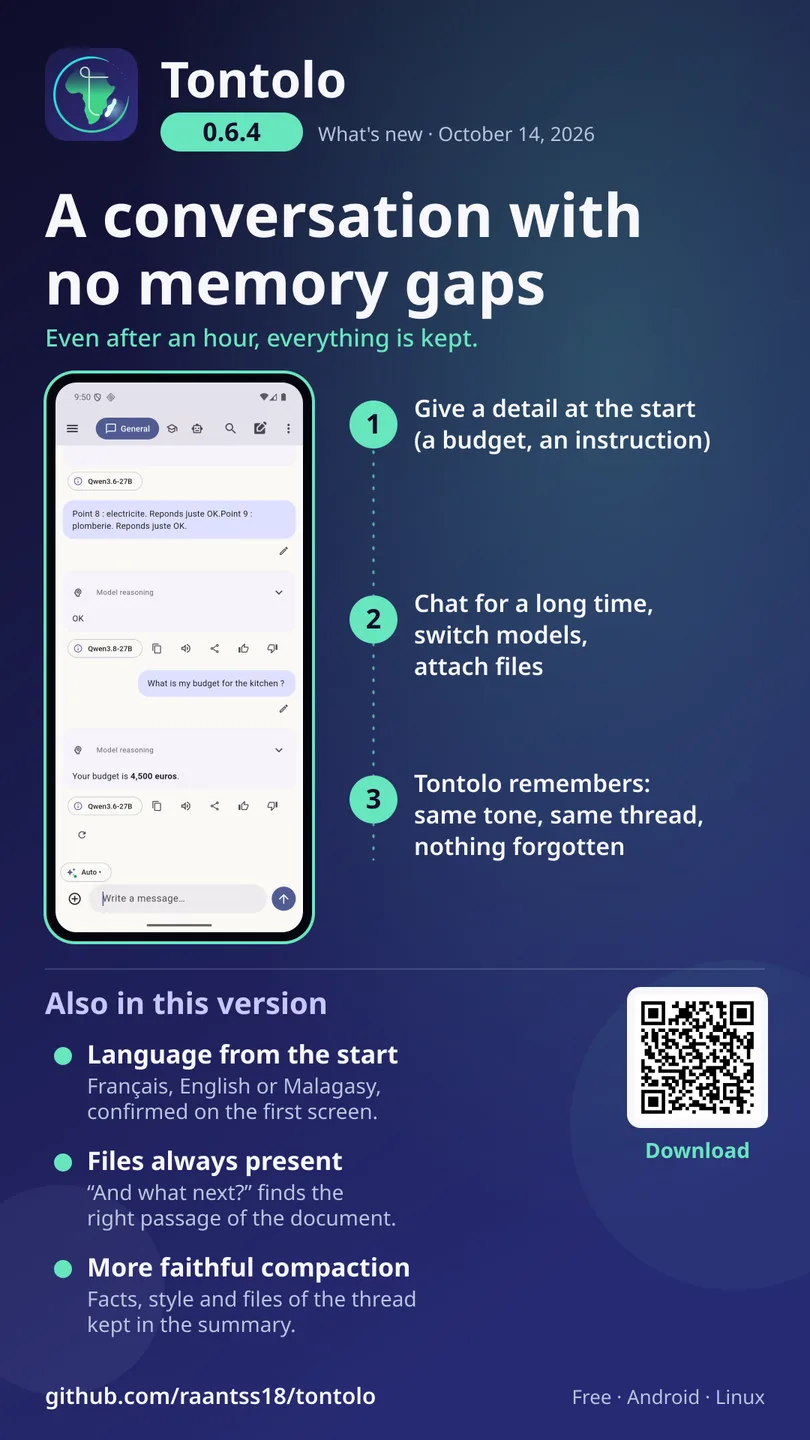
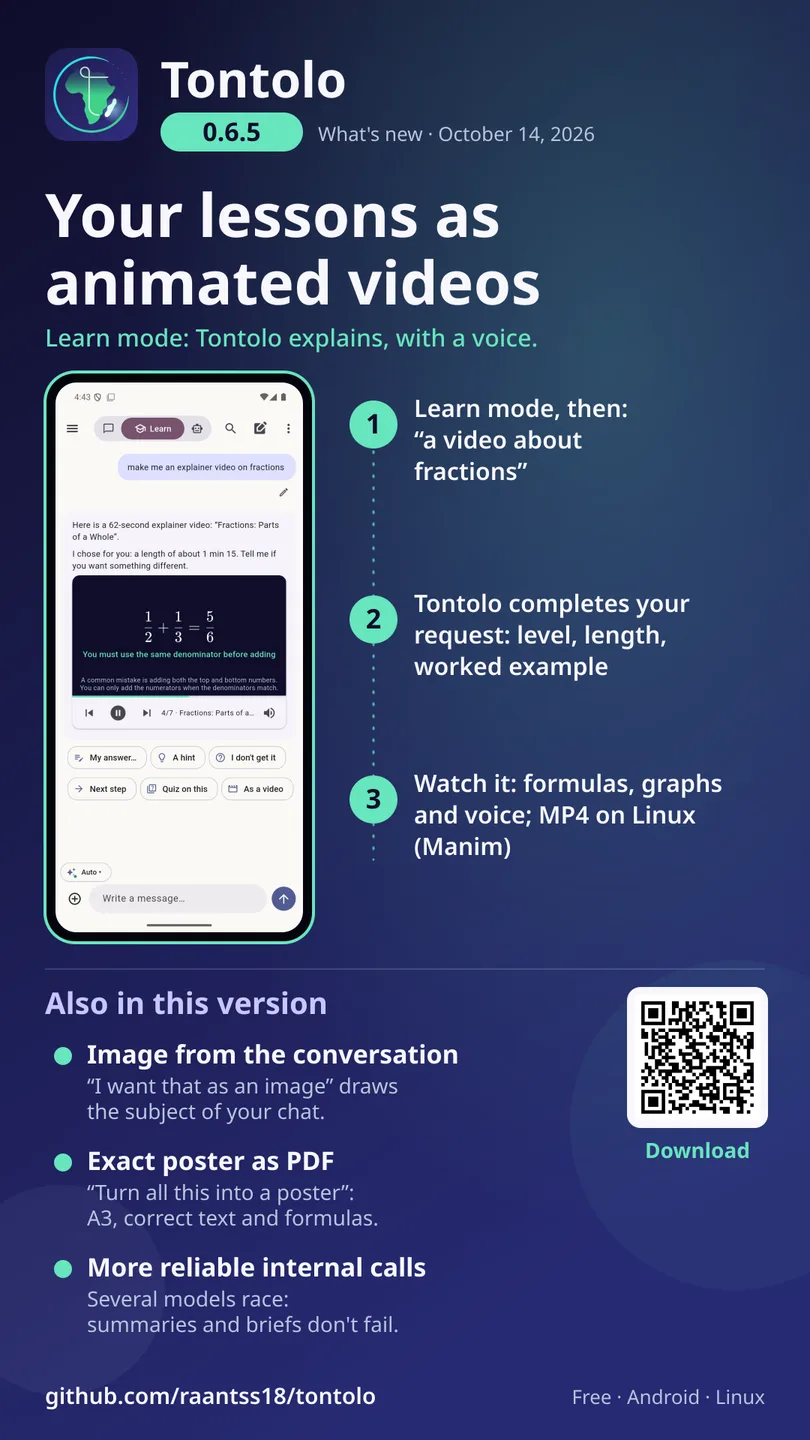
chore(release): v0.6.5
Vidéos explicatives du mode Apprendre testées hors mathématiques : exemple adapté au domaine, LaTeX mis en clair dans la voix, demande sans verbe comprise (fr/en/mg), nouvelle tentative plus courte, lecteur sans débordement.

diff --git a/app/lib/core/whats_new.dart b/app/lib/core/whats_new.dart
@@ -14,6 +14,16 @@ class NewsItem {
 }
 
 const whatsNew = <String, List<NewsItem>>{
+  '0.6.5': [
+    NewsItem(Icons.movie_creation_outlined, 'Des vidéos qui expliquent vos cours',
+        'En mode Apprendre, demandez « fais-moi une vidéo qui explique les fractions » : Tontolo complète votre demande, écrit le scénario et joue une vidéo animée avec la voix, formules et courbes comprises. Sur Linux avec Manim, export en MP4.',
+        'Videos that explain your lessons', 'In Learn mode, ask “make me a video that explains fractions”: Tontolo completes your request, writes the script and plays an animated video with a voice, formulas and graphs included. On Linux with Manim, export to MP4.',
+        mg: 'Horonan-tsary manazava ny lesonao', mgText: 'Amin\'ny Mianatra, angataho hoe « manaova horonan-tsary manazava ny fraction »: ampitambaran\'i Tontolo ny fangatahanao, manoratra ny tantara ary mampiseho horonan-tsary miaraka amin\'ny feo, raikipohy ary fakan-tsary. Amin\'ny Linux misy Manim, azo avoaka MP4.'),
+    NewsItem(Icons.image_outlined, 'Une image tirée de la discussion',
+        '« Je veux ça en image » : l\'image vient maintenant de votre discussion (avant, c\'est la phrase de la demande qui servait de prompt). « Transforme tout cela en poster détaillé » livre un poster A3 en PDF, au texte exact.',
+        'An image drawn from the conversation', '“I want that as an image”: the image now comes from your conversation (before, the request sentence itself was the prompt). “Turn all this into a detailed poster” delivers an A3 PDF poster with exact text.',
+        mg: 'Sary avy amin\'ny resaka', mgText: '« Tiako ho sary izany »: avy amin\'ny resakao ankehitriny ny sary (taloha dia ny fehezanteny nangatahana no nampiasaina). « Ataovy poster feno izany rehetra izany » dia manome poster A3 PDF misy lahatsoratra marina.'),
+  ],
   '0.6.4': [
     NewsItem(Icons.psychology_outlined, 'Une discussion sans trou de mémoire',
         'Même après une heure d\'échanges, Tontolo retrouve ce que vous avez dit au début, garde en tête vos fichiers joints (même pour « et la suite ? ») et conserve le même ton, quel que soit le modèle qui répond.',

diff --git a/app/lib/ui/explainer_player.dart b/app/lib/ui/explainer_player.dart
@@ -203,7 +203,7 @@ class _ExplainerPlayerState extends State<ExplainerPlayer> with SingleTickerProv
               color: _bg,
               child: Stack(fit: StackFit.expand, children: [
                 LayoutBuilder(
-                  builder: (context, box) => _SceneView(scene: scene, t: _ctl.value, scale: box.maxWidth / 640),
+                  builder: (context, box) => _SceneView(scene: scene, t: _ctl.value, scale: box.maxWidth / 420),
                 ),
                 if (!playing)
                   const Center(child: Icon(Icons.play_circle_fill, size: 56, color: Color(0xCCF7F7FB))),
@@ -353,7 +353,7 @@ class _SceneView extends StatelessWidget {
           Expanded(
             child: Padding(
               padding: EdgeInsets.symmetric(horizontal: 24 * scale),
-              child: Column(mainAxisAlignment: MainAxisAlignment.center, children: [
+              child: FittedBox(fit: BoxFit.scaleDown, child: Column(mainAxisSize: MainAxisSize.min, children: [
                 for (var i = 0; i < steps.length; i++)
                   Opacity(
                     opacity: _ease(t, 0.08 + 0.6 * i / steps.length, 0.2 + 0.6 * i / steps.length),
@@ -365,7 +365,7 @@ class _SceneView extends StatelessWidget {
                       ]),
                     ),
                   ),
-              ]),
+              ])),
             ),
           ),
           SizedBox(height: 22 * scale),

diff --git a/app/lib/core/updater.dart b/app/lib/core/updater.dart
@@ -23,7 +23,7 @@ import '../l10n/strings.dart';
 import 'prefs.dart';
 import 'update_key.dart';
 
-const appVersion = '0.6.4';
+const appVersion = '0.6.5';
 const repo = 'raantss18/tontolo';
 
 enum UpdateStatus { idle, checking, downloading, ready, failed, upToDate }

diff --git a/core/tontolo/explainer/storyboard.py b/core/tontolo/explainer/storyboard.py
@@ -41,6 +41,28 @@ def _text(value: Any, limit: int = MAX_TEXT) -> str:
     return s[:limit]
 
 
+_FRAC = re.compile(r"\\d?frac\s*\{([^{}]*)\}\s*\{([^{}]*)\}")
+_SYMBOLS = (("\\times", "×"), ("\\cdot", "·"), ("\\div", "÷"), ("\\pi", "π"),
+            ("\\leq", "≤"), ("\\geq", "≥"), ("\\neq", "≠"), ("\\approx", "≈"),
+            ("\\rightarrow", "→"), ("\\to", "→"))
+
+
+def _plain(value: Any, limit: int = MAX_TEXT) -> str:
+    """Texte à lire ou à afficher tel quel : un modèle y laisse parfois du LaTeX
+    (« \\frac{1}{2} »), que la voix épellerait. On le met en clair."""
+    s = _text(value, 4 * limit)
+    if "\\" in s or "$" in s:
+        s = s.replace("$", "")
+        s = _FRAC.sub(r"\1/\2", s)
+        s = re.sub(r"\\sqrt\s*\{([^{}]*)\}", r"√\1", s)
+        s = re.sub(r"\\text\{([^{}]*)\}", r"\1", s)
+        for tex, sym in _SYMBOLS:
+            s = s.replace(tex, sym)
+        s = re.sub(r"\\[A-Za-z]+", "", s).replace("{", "").replace("}", "")
+        s = re.sub(r"\s+", " ", s).strip()
+    return s[:limit]
+
+
 _LATEX_OK = re.compile(r"^[\\A-Za-z0-9{}\[\]()_^=+\-*/.,:;<>|!&' ~%]+$")
 _LATEX_BAD = re.compile(
     r"\\(?:input|include|write|openin|openout|read|def|edef|gdef|xdef|let|catcode|newcommand|"
@@ -150,7 +172,7 @@ def plot_points(expr: str, xmin: float, xmax: float, n: int = POINTS
 def _items(raw: Any, limit: int = MAX_ITEMS) -> list[str]:
     if not isinstance(raw, list):
         return []
-    return [t for t in (_text(i) for i in raw[:limit]) if t]
+    return [t for t in (_plain(i) for i in raw[:limit]) if t]
 
 
 def _scene(raw: Any, index: int) -> dict[str, Any]:
@@ -160,14 +182,14 @@ def _scene(raw: Any, index: int) -> dict[str, Any]:
     if kind not in TYPES:
         raise StoryboardError(f"scène {index + 1} : type inconnu « {kind} » (types : "
                               + ", ".join(TYPES) + ")")
-    out: dict[str, Any] = {"type": kind, "narration": _text(raw.get("narration"), MAX_NARRATION)}
+    out: dict[str, Any] = {"type": kind, "narration": _plain(raw.get("narration"), MAX_NARRATION)}
     if kind == "title":
-        out["text"] = _text(raw.get("text") or raw.get("title"))
-        out["subtitle"] = _text(raw.get("subtitle"))
+        out["text"] = _plain(raw.get("text") or raw.get("title"))
+        out["subtitle"] = _plain(raw.get("subtitle"))
         if not out["text"]:
             raise StoryboardError(f"scène {index + 1} (title) : « text » manquant")
     elif kind in ("bullets", "recap"):
-        out["title"] = _text(raw.get("title"))
+        out["title"] = _plain(raw.get("title"))
         out["items"] = _items(raw.get("items"), 4)
         if not out["items"]:
             raise StoryboardError(f"scène {index + 1} ({kind}) : « items » manquant")
@@ -177,16 +199,16 @@ def _scene(raw: Any, index: int) -> dict[str, Any]:
                     "narration": out["narration"]}
     elif kind == "equation":
         out["latex"] = latex(raw.get("latex"))
-        out["caption"] = _text(raw.get("caption"))
+        out["caption"] = _plain(raw.get("caption"))
     elif kind == "steps":
-        out["title"] = _text(raw.get("title"))
+        out["title"] = _plain(raw.get("title"))
         steps = []
         for s in (raw.get("steps") or [])[:MAX_ITEMS] if isinstance(raw.get("steps"), list) else []:
             if isinstance(s, str):
                 s = {"text": s}
             if not isinstance(s, dict):
                 continue
-            step = {"text": _text(s.get("text"))}
+            step = {"text": _plain(s.get("text"))}
             if s.get("latex"):
                 step["latex"] = latex(s.get("latex"))
             if step["text"] or step.get("latex"):
@@ -195,8 +217,8 @@ def _scene(raw: Any, index: int) -> dict[str, Any]:
             raise StoryboardError(f"scène {index + 1} (steps) : au moins 2 étapes")
         out["steps"] = steps
     elif kind == "plot":
-        out["title"] = _text(raw.get("title"))
-        out["caption"] = _text(raw.get("caption"))
+        out["title"] = _plain(raw.get("title"))
+        out["caption"] = _plain(raw.get("caption"))
         out["expr"] = _text(raw.get("expr"), 80)
         try:
             xmin, xmax = float(raw.get("xmin", -5)), float(raw.get("xmax", 5))
@@ -205,7 +227,7 @@ def _scene(raw: Any, index: int) -> dict[str, Any]:
         out["xmin"], out["xmax"] = xmin, xmax
         out["points"] = plot_points(out["expr"], xmin, xmax)
     elif kind == "bars":
-        out["title"] = _text(raw.get("title"))
+        out["title"] = _plain(raw.get("title"))
         labels = _items(raw.get("labels"), 6)
         values: list[float] = []
         for v in (raw.get("values") or [])[:6] if isinstance(raw.get("values"), list) else []:

diff --git a/core/tontolo/explainer/intent.py b/core/tontolo/explainer/intent.py
@@ -33,6 +33,10 @@ _MAKE_VIDEO = re.compile(
     rf"\b(?:fais|faire|cr[ée]e\w*|g[ée]n[èe]re\w*|produis\w*|r[ée]alise\w*|pr[ée]pare\w*|"
     rf"montre-moi|donne-moi|make|create|generate|produce|manaova|mamorona|ataovy)\b"
     rf"(?:-moi|-nous)?(?:\s+\S{{1,14}}){{0,4}}?\s+{_VIDEO}\b", re.I)
+# « une vidéo sur la guerre froide », « vidéo : les temps du passé » (sans verbe)
+_BARE_VIDEO = re.compile(
+    rf"^\s*(?:(?:une?|a|an)\s+)?(?:(?:courte?|petite?|short|quick)\s+)?{_VIDEO}\s*"
+    rf"(?::|sur|[àa] propos de|about|on|momba)", re.I)
 _ABOUT_EXISTING = re.compile(
     rf"\b(?:cette|cet|la|ma|ta|sa|this|the|ity)\s+{_VIDEO}\s+(?:jointe|que|est|dit|montre|"
     rf"attached)\b|\b(?:que (?:montre|dit)|what (?:does|is)|r[ée]sume|d[ée]cris)\b", re.I)
@@ -44,11 +48,16 @@ _LEAD = re.compile(
     rf"^\s*(?:(?:peux|pouvez|pourrais|pourriez)[- ](?:tu|vous)\s+|je (?:veux|voudrais|souhaite|"
     rf"aimerais)\s+|(?:s'il (?:te|vous) pla[iî]t[, ]*)|(?:fais|faire|cr[ée]e\w*|g[ée]n[èe]re\w*|"
     rf"produis\w*|r[ée]alise\w*|pr[ée]pare\w*|montre|donne|make|create|can you|please|"
+    rf"ataovy|manaova|mamorona|"
     rf"{_EXPLAIN_VERB})"
     rf"(?:-moi|[- ]nous)?\s+|(?:une?|des|a|an)\s+|(?:courte?|petite?|longue?|belle|simple|"
-    rf"short|quick|nice)\s+|{_VIDEO}\s+|{_KIND}\s+|(?:qui|pour|that|to)\s+(?:m'|nous\s+)?"
+    rf"short|quick|nice|ny|ireo)\s+|{_VIDEO}(?:\s*:\s*|\s+)|{_KIND}\s+|(?:qui|pour|that|to)\s+(?:m'|nous\s+)?"
     rf"{_EXPLAIN_VERB}\s+|(?:sur|[àa] propos de|about|on|momba)\s+|(?:comment|how)\s+)+", re.I)
 _TAIL = re.compile(rf"\s+(?:en|avec une|with an?|in an?|as an?)\s+{_VIDEO}(?:\s+\S+)?\s*$", re.I)
+_TRAIL = re.compile(
+    r"(?:\s+(?:(?:tr[èe]s|plus)\s+)?(?:courte?|rapide|express|longue?|d[ée]taill\w*|short|quick|"
+    r"long|detailed|simple)|\s+(?:de|en|d'environ|of)\s+\d{1,3}\s*(?:min(?:ute)?s?|mn|s|"
+    r"sec(?:ondes?|onds?)?))+\s*$", re.I)
 _BROAD = re.compile(
     r"^(?:les?\s+|la\s+|l')?(?:maths?|math[ée]matiques|physique|chimie|biologie|svt|histoire|"
     r"g[ée]ographie|fran[çc]ais|anglais|informatique|sciences?|économie|philosophie|"
@@ -76,11 +85,12 @@ def resolve(text: str, *, learn_mode: bool = False) -> ExplainerIntent:
     if not t:
         return ExplainerIntent()
     explicit = _EXPLICIT.search(t) is not None
-    if not explicit and not (learn_mode and _MAKE_VIDEO.search(t)):
+    if not explicit and not (learn_mode and (_MAKE_VIDEO.search(t) or _BARE_VIDEO.search(t))):
         return ExplainerIntent()
     if _ABOUT_EXISTING.search(t) and not _MAKE_VIDEO.search(t) and not explicit:
         return ExplainerIntent()
     topic = _TAIL.sub("", _LEAD.sub("", t)).strip(" .,;:?!")
+    topic = _TRAIL.sub("", topic).strip(" .,;:?!")
     words = [w for w in re.findall(r"[a-z0-9]{3,}", _norm(topic))]
     deictic = _DEICTIC.search(t) is not None
     return ExplainerIntent(True, deictic or len(words) < 1, topic[:200])
@@ -114,8 +124,11 @@ class Brief:
             f"Public : {who}. Langue des textes : {self.language}. Durée visée : "
             f"{self.duration_s} secondes, {self.scenes} scènes.",
             "Plan imposé : 1) accroche (une question ou une situation concrète), 2) l'idée "
-            "centrale en une phrase simple, 3) UN exemple chiffré résolu pas à pas, 4) l'erreur "
-            "fréquente à éviter, 5) récapitulation en 3 points.",
+            "centrale en une phrase simple, 3) UN exemple concret déroulé pas à pas (un calcul "
+            "chiffré pour les maths et les sciences ; pour l'histoire, les langues, la "
+            "littérature, la géographie ou l'économie : un cas réel, une date clé, une phrase "
+            "ou un document analysé, JAMAIS une opération artificielle), 4) l'erreur fréquente "
+            "ou l'idée reçue à corriger, 5) récapitulation en 3 points.",
             "Pas de jargon sans l'expliquer ; une idée par scène ; phrases courtes ; vérifie "
             "chaque calcul et chaque affirmation (rien d'inventé).",
         ]

diff --git a/core/tests/test_explainer.py b/core/tests/test_explainer.py
@@ -64,6 +64,18 @@ def test_naive_requests_are_completed() -> None:
     assert "accroche" in complete("une vidéo sur Ohm").directive()
 
 
+def test_the_chosen_length_is_only_announced_when_the_video_is_close_to_it() -> None:
+    from tontolo.explainer import service
+
+    brief = complete("fais-moi une vidéo sur les fractions")  # durée choisie : 75 s
+    short = storyboard.validate(GOOD)
+    assert short["seconds"] < 45
+    assert "J'ai choisi pour vous" not in service.message_for(short, brief)
+    longer = dict(short, seconds=70)
+    assert "durée d'environ 1 min 15" in service.message_for(longer, brief) \
+        or "une durée d'environ 1 min 15" in service.message_for(longer, brief)
+
+
 def test_the_storyboard_is_validated_and_bounded() -> None:
     story = storyboard.validate(GOOD)
     assert story["seconds"] > 10 and len(story["scenes"]) == 5
@@ -253,3 +265,33 @@ def test_real_manim_render() -> None:
 
     mp4 = asyncio.run(manim_render.render(storyboard.validate(GOOD)))
     assert mp4[4:8] == b"ftyp" and len(mp4) > 10_000
+
+
+def test_bare_video_request_in_learn_mode() -> None:
+    """« une vidéo sur … » sans verbe : en mode Apprendre c'est une vidéo explicative."""
+    r = resolve("video: les temps du passe en anglais", learn_mode=True)
+    assert r.active and r.topic == "les temps du passe en anglais"
+    r = resolve("fais une video sur la guerre froide courte", learn_mode=True)
+    assert r.active and r.topic == "la guerre froide"  # « courte » règle la durée, pas le sujet
+    assert not resolve("une video sur la guerre froide").active  # hors mode Apprendre
+    assert not resolve("j'ai vu une video sur youtube", learn_mode=True).active
+
+
+def test_directive_adapts_example_to_the_domain() -> None:
+    d = complete("une video sur la guerre froide", topic="").directive()
+    assert "JAMAIS une opération artificielle" in d
+
+
+def test_malagasy_request_topic() -> None:
+    r = resolve("ataovy horonan-tsary momba ny ampahany", learn_mode=True)
+    assert r.active and r.topic == "ampahany"
+
+
+def test_latex_in_prose_is_made_plain() -> None:
+    story = storyboard.validate({"title": "Fractions", "scenes": [
+        {"type": "title", "text": "Fractions", "narration": r"On a \frac{1}{2} + \frac{1}{2} = 1."},
+        {"type": "bullets", "title": "Idée", "items": [r"$\frac{a}{b}$ avec b \neq 0", "x"],
+         "narration": "Voyons."},
+        {"type": "recap", "title": "Fin", "items": ["a", "b", "c"], "narration": "Fin."}]})
+    assert story["scenes"][0]["narration"] == "On a 1/2 + 1/2 = 1."
+    assert story["scenes"][1]["items"][0] == "a/b avec b ≠ 0"

diff --git a/core/tontolo/explainer/service.py b/core/tontolo/explainer/service.py
@@ -58,7 +58,10 @@ def message_for(story: dict[str, Any], brief: Brief, *, fallback: bool = False) 
     parts = [t["intro"].format(s=round(story["seconds"]), t=story["title"])]
     if fallback:
         parts.append(t["fallback"])
-    notes = [_NOTES[lang].get(n, n) for n in brief.notes]
+    # La durée « choisie » n'est annoncée que si la vidéo s'en approche (le modèle écrit court).
+    near = abs(story["seconds"] - brief.duration_s) <= 0.4 * brief.duration_s
+    notes = [_NOTES[lang].get(n, n) for n in brief.notes
+             if near or not n.startswith("durée d'environ")]
     if notes:
         parts.append(t["choices"].format(c=", ".join(notes)))
     return "\n\n".join(parts) + "\n\n```explainer\n" + json.dumps(
@@ -92,6 +95,22 @@ async def produce(core: Any, text: str, history: list[dict[str, Any]], intent: E
     try:
         return await writer.write(brief, ask, context=summary), brief, model["name"], False
     except Exception:  # modèle absent, délai, JSON invalide deux fois
+        pass
+    # Dernière chance avant le repli : une vidéo plus courte (4 scènes), tous modèles gratuits
+    # confondus, c'est plus facile à écrire pour un petit modèle.
+    light = Brief(brief.topic or context_topic, brief.level, brief.language, 45, brief.broad,
+                  [n for n in brief.notes if not n.startswith("durée d'environ")])
+
+    async def ask_light(messages: list[dict[str, Any]], accept: Callable[[str], bool]) -> str:
+        out = await core.router.quick(messages, 2500, accept, per_try=60, budget=100,
+                                      stagger=4.0)
+        if not out:
+            raise TimeoutError("aucun modèle n'a fourni de scénario valide")
+        return out
+
+    try:
+        return await writer.write(light, ask_light, context=summary), light, "", False
+    except Exception:
         simple = storyboard.fallback_from_text(brief.topic or context_topic, summary,
                                                brief.language)
         return simple, brief, "", simple is not None

diff --git a/core/tontolo/explainer/writer.py b/core/tontolo/explainer/writer.py
@@ -30,15 +30,19 @@ SCENE is one of:
 Rules:
 - Follow the plan and the audience given by the user. First scene: type "title". Last scene: \
 "recap". 4 to 8 scenes.
-- "narration" is what a friendly voice says over the scene: 1 or 2 short, natural sentences, in \
-the requested language. On-screen texts are even shorter (under 70 characters).
+- "narration" is what a friendly voice says over the scene: 2 or 3 short, natural sentences (about \
+25 to 40 words, so the video reaches the requested length), in the requested language. On-screen texts are even shorter (under 70 characters).
 - Fill the screen: a "bullets" scene has 2 to 4 items (never one); put a key formula in an "equation" scene; prefer "steps" for the worked example.
-- Include ONE worked example with real numbers, shown with "steps" or "equation" (and a "plot" \
-when a function helps). Check every calculation twice. Never invent facts.
+- Include ONE worked example, shown with "steps" or "equation". Maths and sciences: real numbers \
+(and a "plot" when a function helps); check every calculation twice. History, languages, \
+literature, geography, economy: a real case, a key date, a sentence or a quoted extract analysed \
+step by step, never a made-up calculation. Use "bars" ONLY for real, well-known figures; never \
+invent numbers or a ranking. Never invent facts.
 - LaTeX: plain ASCII only (\\\\frac, \\\\sqrt, ^, _, \\\\cdot, \\\\times, \\\\pi, \\\\text{words}); no \\\\def, \\\\input, \\\\usepackage, no \
 accented letters inside LaTeX.
 - "expr" for plots: x, numbers, + - * / **, sin cos tan exp log sqrt abs, pi.
-- Write all on-screen text and narration in the language requested."""
+- Write all on-screen text and narration in the language requested. For language lessons, use the real grammar terms of the language taught (e.g. \
+"simple past", never a French term for an English tense) and keep the examples in that language."""
 
 _LANG = {"fr": "French", "en": "English", "mg": "Malagasy"}
 

diff --git a/core/tontolo/__init__.py b/core/tontolo/__init__.py
@@ -1,3 +1,3 @@
 """Tontolo — hub d'IA libre qui route vers le meilleur modèle gratuit disponible."""
 
-__version__ = "0.6.4"
+__version__ = "0.6.5"

diff --git a/CHANGELOG.md b/CHANGELOG.md
@@ -5,6 +5,8 @@ Format : [Keep a Changelog](https://keepachangelog.com/fr/1.1.0/), versionnement
 
 ## [Non publié]
 
+## [0.6.5] - 2026-10-14
+
 ### Ajouté
 - Vidéos explicatives dans le mode Apprendre : « fais-moi une vidéo qui explique les fractions »
   devient une vidéo animée, avec la voix, lue dans l'application (accroche, idée, exemple chiffré,
@@ -12,6 +14,10 @@ Format : [Keep a Changelog](https://keepachangelog.com/fr/1.1.0/), versionnement
   vagues à la place de l'utilisateur (niveau, durée, plan, notion centrale) et le dit. Sur Linux
   avec Manim, export en vidéo MP4 (gabarits fixes, bac à sable : aucun code écrit par un
   modèle n'est exécuté). Voir docs/EXPLAINER.md.
+- Vidéos testées hors mathématiques (histoire, langues, littérature, économie, biologie) :
+  l'exemple s'adapte au domaine (un cas réel, une date, une réplique, jamais un calcul
+  artificiel), pas de chiffres inventés, LaTeX égaré dans la voix mis en clair, « une vidéo sur … »
+  compris sans verbe (fr/en/mg), nouvelle tentative plus courte avant d'abandonner.
 
 ### Ajouté
 - « Je veux ça en image », « génère une image par rapport à la discussion », « mets cela en
